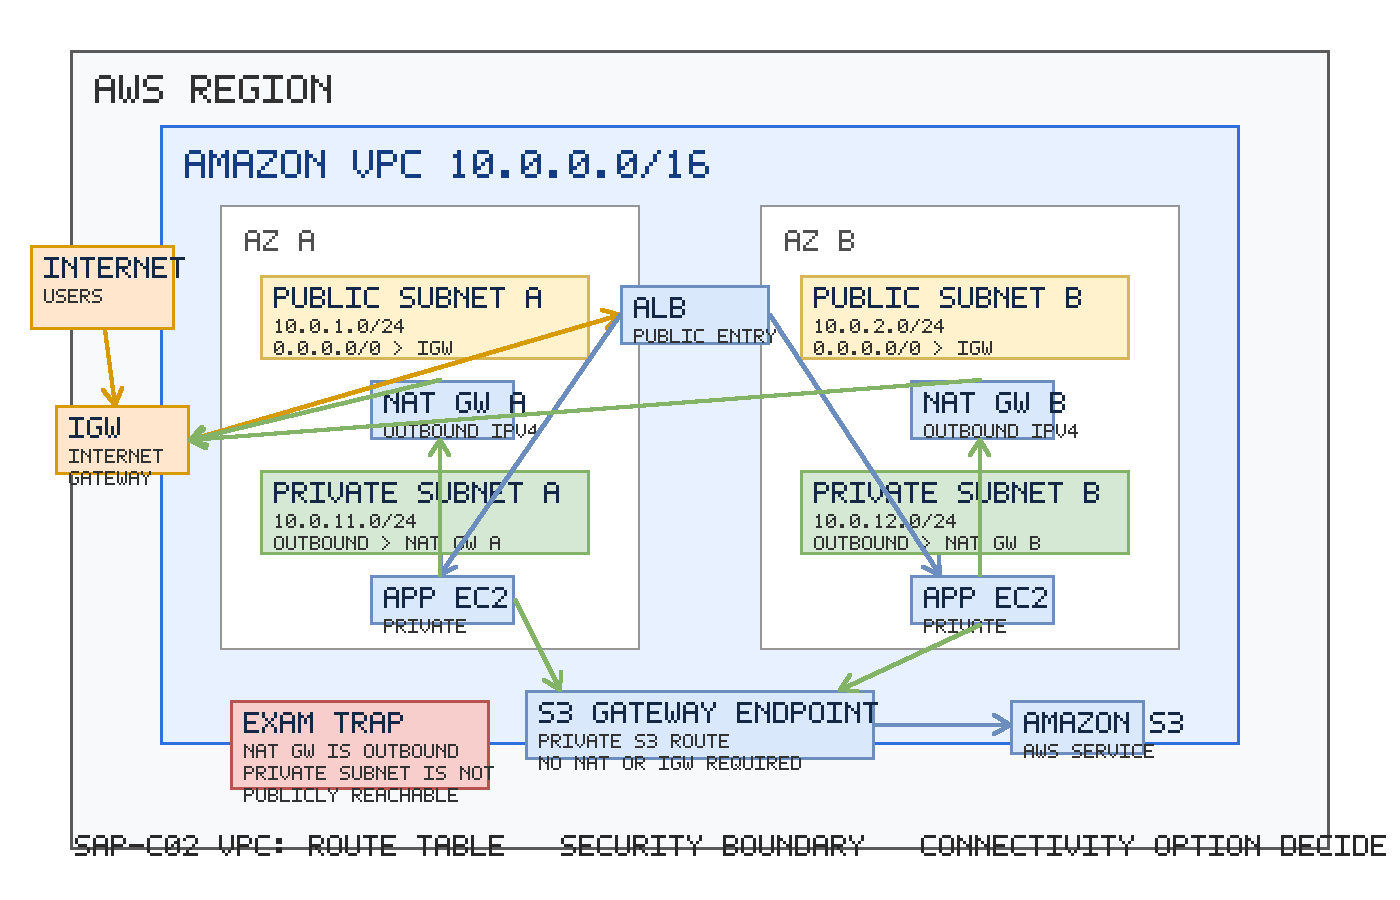
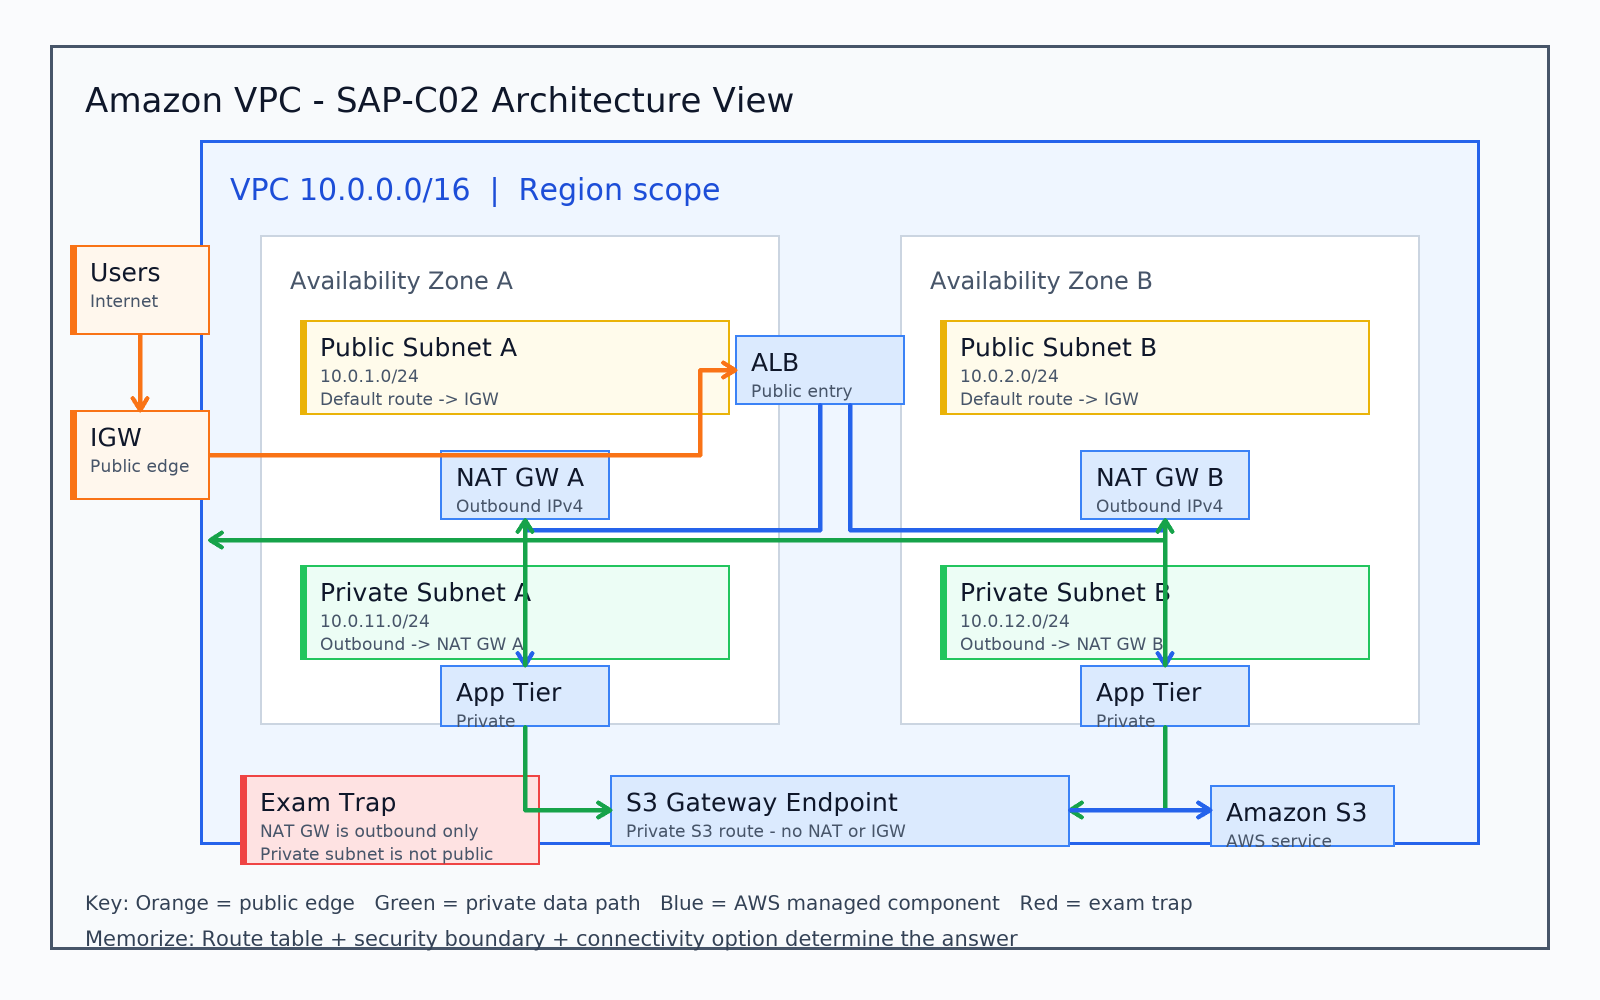
docs(diagram): VPC 아키텍처 PNG 가독성을 개선
Obsidian에서 보기 좋은 서비스 그림 기준에 맞춰 VPC 아키텍처 이미지를 정리하고, 향후 PNG 검수 기준에 폰트와 선 겹침 확인을 추가한다.

Constraint: 사용자는 선 겹침과 픽셀 폰트 품질 문제를 지적했다.

Rejected: 기존 픽셀 폰트 기반 PNG 유지 | 학습 노트에서 가독성이 낮아 거부.

Confidence: high

Scope-risk: narrow

Directive: 향후 아키텍처 PNG는 sans-serif, 충분한 여백, 선 겹침 없는 직각 라우팅을 기본으로 한다.

Tested: PNG 파일 형식과 시그니처 확인, 시각 검수 수행.

Not-tested: Obsidian 앱 내 렌더링은 직접 실행하지 않음.

Changed region(s): [[0.0, 0.0311, 0.9829, 0.9644], [0.86, 0.1244, 0.9521, 0.84], [0.43, 0.6533, 0.4607, 0.6844]]

diff --git a/AWS Cert Note/.codex/skills/aws-sap-service-notes/SKILL.md b/AWS Cert Note/.codex/skills/aws-sap-service-notes/SKILL.md
@@ -79,12 +79,16 @@ Use a draw.io-style linear architecture only when service relationships, traffic
 
 - Prefer box-and-arrow diagrams.
 - Use left-to-right flow unless a hub-and-spoke or layered layout is clearer.
+- Use a clean sans-serif font; avoid pixel/bitmap-looking fonts.
+- Route arrows orthogonally and leave whitespace so lines do not cross labels or run through boxes.
+- Keep label count low: service name, boundary, route decision, and exam trap only.
 - Use light backgrounds and minimal colors:
   - blue: AWS managed service/control plane
   - green: private VPC/subnet/data path
   - orange: internet/edge/external user
   - red: risk, failure, or exam trap callout
 - Include only labels that help exam recall: HA boundary, Region/AZ/account boundary, trust boundary, routing path, replication path, or migration flow.
+- Before finishing, visually inspect the PNG for overlapping arrows, clipped text, unreadable labels, and excessive detail.
 
 ### Non-architecture visual style
 
